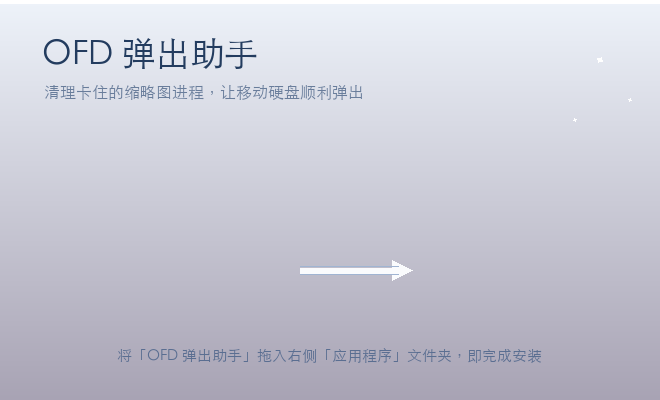
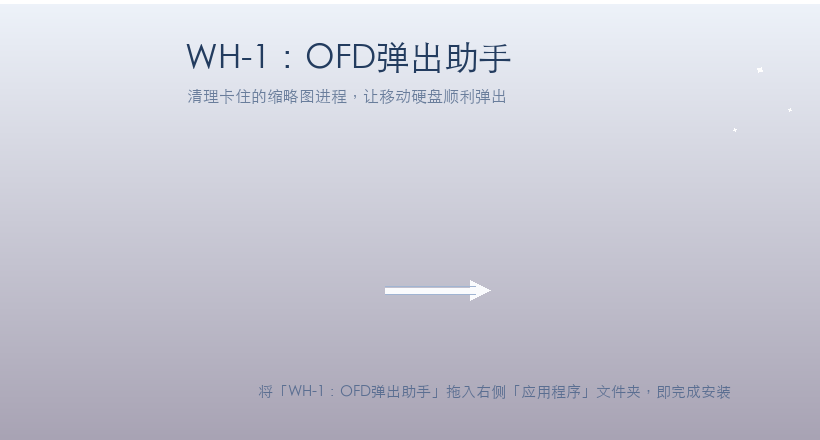
refactor: 更名为「WH-1：OFD弹出助手」，版本升至 1.1.0
- App 显示名 / .app 包名 / DMG 卷名统一加 WH-1： 前缀
- Bundle ID 改为 cn.cuihao.wh-1-ofd-eject-helper
- DMG 文件名改为 WH-1-OFD-Eject-Helper.dmg（保持 ASCII，避免 Release 剥离中文）
- 背景图与 README 截图按新名称重绘
- build.sh: DMG 步骤不再用 `| grep || true` 吞掉失败，新增挂载自检，防止产出空壳镜像
- CI: 挂载改用 -mountpoint，验证不再依赖卷名；artifact 名改 ASCII

Changed region(s): [[0.0606, 0.09, 0.6364, 0.27], [0.1818, 0.87, 0.9091, 0.93], [0.4545, 0.63, 0.6364, 0.69]]

diff --git a/src/main.swift b/src/main.swift
@@ -94,7 +94,7 @@ final class AppDelegate: NSObject, NSApplicationDelegate {
         }
 
         // 用独立窗口承载，确保能正常关闭
-        alert.window.title = "OFD 弹出助手"
+        alert.window.title = "WH-1：OFD弹出助手"
         alert.window.level = .floating
 
         let response = alert.runModal()
@@ -122,7 +122,7 @@ final class AppDelegate: NSObject, NSApplicationDelegate {
             : "清理过程中遇到问题，\n不过可能已经无进程占用了，\n你可以先试试手动弹出。"
         alert.alertStyle = .informational
         alert.addButton(withTitle: "完成")
-        alert.window.title = "OFD 弹出助手"
+        alert.window.title = "WH-1：OFD弹出助手"
         alert.window.level = .floating
 
         alert.runModal()

diff --git a/scripts/make_dmg_bg.py b/scripts/make_dmg_bg.py
@@ -36,7 +36,7 @@ sub_font = font(16)
 hint_font = font(15)
 
 # 标题 + 副标题（x=185 起，避开侧边栏）
-d.text((185, 40), "OFD 弹出助手", fill=(35, 60, 95), font=title_font)
+d.text((185, 40), "WH-1：OFD弹出助手", fill=(35, 60, 95), font=title_font)
 d.text((187, 88), "清理卡住的缩略图进程，让移动硬盘顺利弹出", fill=(105, 125, 155), font=sub_font)
 
 # 中间箭头（App 图标约在 x 240-336，Applications 约 540-636，箭头放 380-490 之间）
@@ -47,7 +47,7 @@ d.line([(385, arrow_y - 4), (475, arrow_y - 4)], fill=(160, 180, 210), width=1)
 d.line([(385, arrow_y + 4), (475, arrow_y + 4)], fill=(160, 180, 210), width=1)
 
 # 底部提示（以内容区中心为基准居中，即 x 170~820 的中点 ≈ 495）
-hint = "将「OFD 弹出助手」拖入右侧「应用程序」文件夹，即完成安装"
+hint = "将「WH-1：OFD弹出助手」拖入右侧「应用程序」文件夹，即完成安装"
 tw = d.textlength(hint, font=hint_font)
 d.text((int(170 + (W - 170 - tw) / 2), H - 56), hint, fill=(90, 110, 145), font=hint_font)
 
@@ -56,5 +56,8 @@ d.regular_polygon((760, 70, 3), 4, rotation=15, fill=(255, 255, 255))
 d.regular_polygon((790, 110, 2), 4, rotation=40, fill=(255, 255, 255))
 d.regular_polygon((735, 130, 2), 4, rotation=70, fill=(255, 255, 255))
 
-img.save("dmg_background.png")
-print("saved:", img.size)
+# 固定写到仓库内的 assets/，避免从别的目录运行时产出落到当前目录
+ROOT = os.path.dirname(os.path.dirname(os.path.abspath(__file__)))
+OUT = os.path.join(ROOT, "assets", "dmg-background.png")
+img.save(OUT)
+print("saved:", OUT, img.size)

diff --git a/scripts/dmg_settings.py b/scripts/dmg_settings.py
@@ -1,10 +1,12 @@
-# dmgbuild 配置：OFD 弹出助手 安装镜像
-# 用法：python3 -m dmgbuild -s scripts/dmg_settings.py "OFD弹出助手" dist/OFD弹出助手.dmg
+# dmgbuild 配置：WH-1：OFD弹出助手 安装镜像
+# 用法：python3 -m dmgbuild -s scripts/dmg_settings.py "WH-1：OFD弹出助手" dist/WH-1-OFD-Eject-Helper.dmg
+APP_NAME = 'WH-1：OFD弹出助手'
+
 format = 'UDBZ'          # bzip2 压缩
 size = None              # 自动计算
 
 # 要放进 DMG 的文件
-files = ['build/OFD弹出助手.app']
+files = ['build/%s.app' % APP_NAME]
 
 # Applications 软链接（拖拽安装用）
 symlinks = {'Applications': '/Applications'}
@@ -21,9 +23,9 @@ show_icon_preview = False
 
 # 图标位置（DMG 窗口内坐标，窗口 820x440；左侧 170px 预留给侧边栏）
 icon_locations = {
-    'OFD弹出助手.app': (240, 230),
-    'Applications':    (540, 230),
-    '.background':     (0, 0),   # 藏到看不见的地方
+    '%s.app' % APP_NAME: (240, 230),
+    'Applications':      (540, 230),
+    '.background':       (0, 0),   # 藏到看不见的地方
 }
 
 # 图标大小

diff --git a/README.md b/README.md
@@ -1,4 +1,4 @@
-# OFD 弹出助手 (OFD Eject Helper)
+# WH-1：OFD弹出助手
 
 [![Build](https://github.com/drdr19/ofd-eject-helper/actions/workflows/build.yml/badge.svg)](https://github.com/drdr19/ofd-eject-helper/actions/workflows/build.yml)
 ![Platform](https://img.shields.io/badge/platform-macOS%2013%2B-lightgrey)
@@ -29,13 +29,13 @@ macOS 26 起系统原生支持 **OFD**（国内电子发票格式）的预览和
 
 ### 方式一：下载安装包（推荐）
 
-1. 到 [Releases](https://github.com/drdr19/ofd-eject-helper/releases) 页面下载最新的 `OFD-Eject-Helper.dmg`
-2. 双击打开，把 **OFD弹出助手** 拖进「应用程序」文件夹
+1. 到 [Releases](https://github.com/drdr19/ofd-eject-helper/releases) 页面下载最新的 `WH-1-OFD-Eject-Helper.dmg`
+2. 双击打开，把 **WH-1：OFD弹出助手** 拖进「应用程序」文件夹
 3. **首次打开需要右键点击 App → 选择「打开」**（因为本 App 使用 ad-hoc 自签名，没有 Apple 开发者证书）
 
 > 如果从微信 / 网盘下载后被系统拦截，可以打开「终端」执行：
 > ```bash
-> xattr -cr "/Applications/OFD弹出助手.app"
+> xattr -cr "/Applications/WH-1：OFD弹出助手.app"
 > ```
 > 然后再右键 →「打开」。
 
@@ -48,7 +48,7 @@ cd ofd-eject-helper
 # 依赖：Xcode Command Line Tools + dmgbuild
 pip3 install dmgbuild
 
-# 一键构建（产出 dist/OFD-Eject-Helper.dmg，通用二进制支持 Intel + Apple Silicon）
+# 一键构建（产出 dist/WH-1-OFD-Eject-Helper.dmg，通用二进制支持 Intel + Apple Silicon）
 bash scripts/build.sh
 ```
 
@@ -92,10 +92,12 @@ bash scripts/build.sh
 .
 ├── src/
 │   ├── main.swift          # 全部源码（约 170 行）
-│   └── Info.plist          # App 配置
+│   └── Info.plist          # App 配置（Bundle ID / 版本 / 显示名）
 ├── scripts/
-│   ├── build.sh            # 一键构建脚本
-│   └── dmg_settings.py     # DMG 布局配置（背景图、图标位置）
+│   ├── build.sh            # 一键构建脚本（编译 → 图标 → 签名 → DMG → 自检）
+│   ├── dmg_settings.py     # DMG 布局配置（背景图、图标位置）
+│   ├── make_dmg_bg.py      # 生成 DMG 背景图（PingFang 中文字体）
+│   └── make_transparent.py # 图标抠透明
 ├── assets/
 │   ├── icon-1024.png       # App 图标源图
 │   └── dmg-background.png  # 安装界面背景图
@@ -103,6 +105,12 @@ bash scripts/build.sh
 │   └── screenshot-dmg.png  # 安装界面截图
 └── dist/                   # 构建产物（已 gitignore）
 ```
+
+## 命名说明
+
+`WH-1` 是编号前缀，方便同一系列的小工具按序号归档。App 的显示名、`.app` 包名、
+DMG 卷名都带 `WH-1：` 前缀；DMG **文件名**保持 ASCII（`WH-1-OFD-Eject-Helper.dmg`），
+因为 GitHub Release 会把中文附件名剥掉。
 
 ## 常见问题
 
